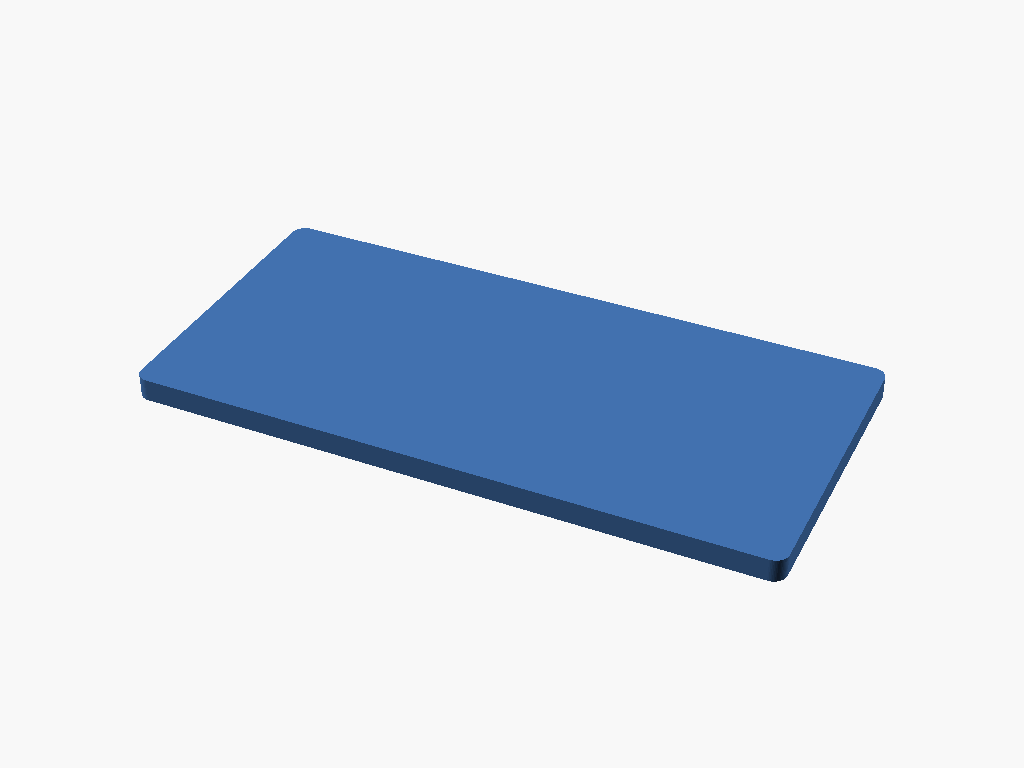
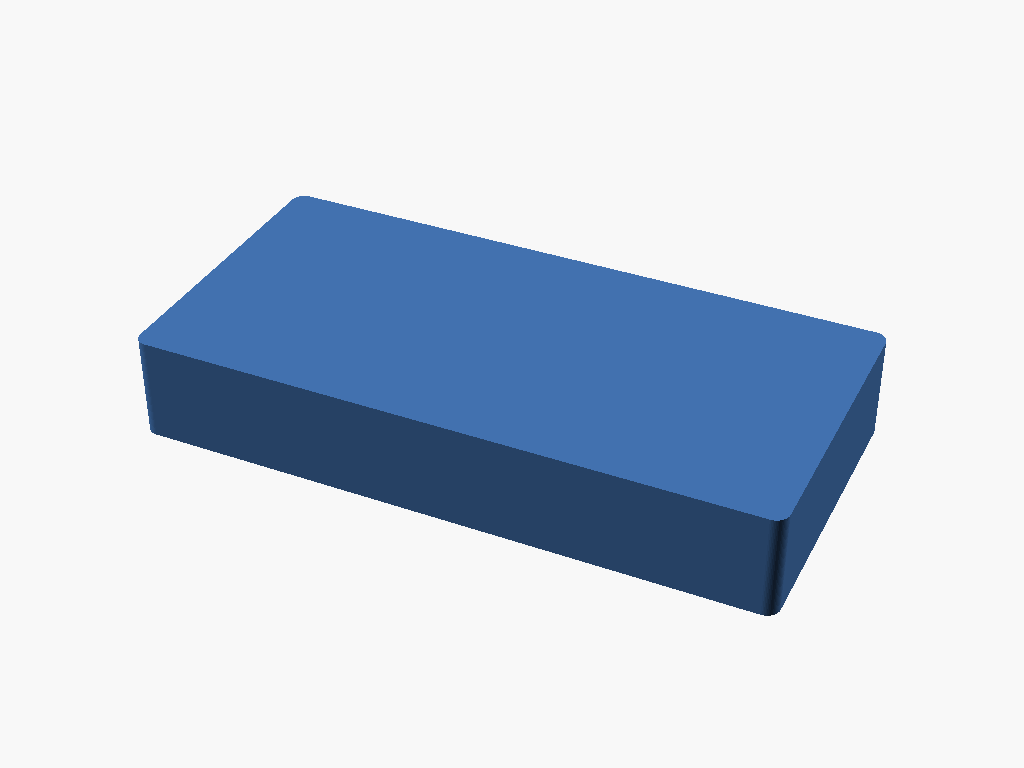
Redesign lid as box cover with item recesses; add assembly doc
- Lid is now a 23 mm box that fits over a loaded tray
- Internal recesses: 20 mm for jars (18 mm protrusion + 2 mm),
  8 mm for knife (6 mm protrusion + 2 mm)
- Magnets remain in same XY positions; pockets now on lid bottom face
- Add src/puffco_knife_jar_tray.md with magnet spec, polarity
  instructions, print settings, and dimension table

Changed region(s): [[0.125, 0.25, 0.875, 0.8125]]

diff --git a/src/puffco_knife_jar_tray.md b/src/puffco_knife_jar_tray.md
@@ -1,0 +1,67 @@
+# Puffco Knife + Jar Tray — Assembly Notes
+
+Holds a Puffco Hot Knife (model 041879) and two 42×42 mm square jars (with lids).
+Prints as two parts: **tray** and **lid**.
+
+## Print settings
+
+| Setting | Recommendation |
+|---|---|
+| Layer height | 0.2 mm |
+| Infill | 20 % |
+| Supports | None required |
+| Orientation | Flat (as designed) |
+
+The lid prints upside-down (open face up) to avoid supports inside the recesses.
+
+## Magnet hardware
+
+**4× neodymium disc — 6 mm diameter × 3 mm thick (N35 or stronger)**
+
+Available from most hardware stores or online (search "6x3 neodymium disc magnet").
+N52 grade gives the strongest hold but N35–N52 all work.
+
+## Magnet installation
+
+The tray has **4 pockets on its top face** and the lid has **4 matching pockets on its bottom face**. Magnets press-fit into all 8 pockets.
+
+```
+Tray top face (looking down):
+
+  ┌──────────────────────────────────────────────────────┐
+  │  ●        [  jar 1  ]  gap  [  jar 2  ]        ●   │  ← magnets at
+  │  ●                                             ●   │    front & rear
+  │           [      knife slot                   ]    │    of each side
+  └──────────────────────────────────────────────────────┘
+```
+
+### Step 1 — test polarity before gluing
+
+Drop one magnet into each tray pocket (don't glue yet). Place the lid on the tray. Each lid pocket should sit directly above a tray pocket. Drop a magnet into each lid pocket and let it self-orient — it will flip to the attracting pole automatically if dropped in loosely.
+
+Once all 8 magnets are in and the lid snaps closed correctly, mark the top face of each lid magnet with a marker before removing them. Reinstall with marked face up to preserve polarity.
+
+### Step 2 — secure with adhesive
+
+Use a small drop of **CA glue (super glue)** or **epoxy** in each pocket before pressing the magnet flush. Wipe any squeeze-out immediately. Allow to cure fully before use.
+
+> **Tip:** if two adjacent magnets repel each other in a pocket, flip one of them over. Polarity only matters between the tray magnet and its matching lid magnet — not between neighboring magnets in the same part.
+
+## Lid geometry
+
+The lid is a **box cover** (23 mm tall) that fits over the loaded tray. The inside has shaped recesses so it sits flat against the tray rim without pressing on the items:
+
+| Recess | Depth | Clears |
+|---|---|---|
+| Jar slots (×2) | 20 mm | 18 mm protrusion + 2 mm |
+| Knife slot | 8 mm | 6 mm protrusion + 2 mm |
+
+Orient the lid so its recesses align with the tray contents before closing.
+
+## Dimensions
+
+| Part | X | Y | Z |
+|---|---|---|---|
+| Tray | 141 mm | 68 mm | 9 mm |
+| Lid | 141 mm | 68 mm | 23 mm |
+| Combined (closed) | 141 mm | 68 mm | 32 mm |
